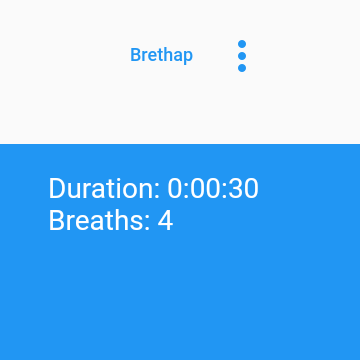
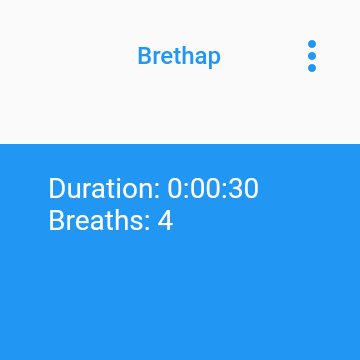
Update for release

Changed region(s): [[0.3667, 0.1222, 0.6111, 0.1833], [0.6417, 0.0917, 0.7028, 0.2139], [0.8556, 0.0917, 0.8861, 0.2139]]

diff --git a/lib/main.dart b/lib/main.dart
@@ -3,8 +3,18 @@ import 'dart:async';
 import 'package:flutter/material.dart';
 import 'package:vibration/vibration.dart';
 import 'package:brethap/constants.dart';
+import 'package:wear/wear.dart';
 
 void main() {
+  // Do not debugPrint in release
+  bool isInRelease = true;
+  assert(() {
+    isInRelease = false;
+    return true;
+  }());
+  if (isInRelease) {
+    debugPrint = (String? message, {int? wrapWidth}) {};
+  }
   runApp(const MainWidget());
 }
 
@@ -234,88 +244,97 @@ class _HomeWidgetState extends State<HomeWidget> {
 
   @override
   Widget build(BuildContext context) {
-    return Scaffold(
-      appBar: AppBar(
-        centerTitle: true,
-        title: Visibility(
-            visible: !_isRunning,
-            child: Text(_title,
-                style: const TextStyle(color: MainWidget.color, fontSize: 9))),
-        backgroundColor: Colors.transparent,
-        elevation: 0,
-        actions: <Widget>[
-          Visibility(
-            visible: !_isRunning,
-            child: PopupMenuButton<String>(
-              elevation: 0,
-              icon: const Icon(
-                Icons.more_vert,
-                color: MainWidget.color,
-              ),
-              onSelected: updatePreset,
-              itemBuilder: (BuildContext context) {
-                return presets.map((String choice) {
-                  return PopupMenuItem<String>(
-                    value: choice,
-                    child: Row(
-                      mainAxisAlignment: MainAxisAlignment.center,
-                      children: [
-                        Text(choice,
-                            style: const TextStyle(
-                              color: MainWidget.color,
-                            ))
-                      ],
-                    ),
-                  );
-                }).toList();
-              },
-            ),
-          ),
-          const SizedBox(width: 35.0),
-        ],
-      ),
-      extendBodyBehindAppBar: true,
-      body: Center(
-        child: Column(
-          mainAxisAlignment: MainAxisAlignment.center,
-          children: <Widget>[
-            Center(
-                child: Transform.scale(
-                    scale: _scale,
-                    child: Padding(
-                      padding: const EdgeInsets.all(8.0),
-                      child: Container(
-                        width: 90.0,
-                        height: 90.0,
-                        decoration: BoxDecoration(
-                          color: Theme.of(context).primaryColor,
-                          shape: BoxShape.circle,
-                        ),
-                      ),
-                    ))),
-            Text(
-              _status,
-            ),
-            ElevatedButton(
-                style: ButtonStyle(
-                    shape: MaterialStateProperty.all<RoundedRectangleBorder>(
-                  RoundedRectangleBorder(
-                    borderRadius: BorderRadius.circular(20.0),
+    return WatchShape(
+      builder: (BuildContext context, WearShape shape, Widget? child) {
+        debugPrint("Watch shape: $shape");
+        double padding = 0.0, fontSize = 12.0;
+        if (shape == WearShape.round) {
+          padding = 35.0;
+          fontSize = 9.0;
+        }
+        return Scaffold(
+          appBar: AppBar(
+            centerTitle: true,
+            title: Visibility(
+                visible: !_isRunning,
+                child: Text(_title,
+                    style: TextStyle(
+                        color: MainWidget.color, fontSize: fontSize))),
+            backgroundColor: Colors.transparent,
+            elevation: 0,
+            actions: <Widget>[
+              Visibility(
+                visible: !_isRunning,
+                child: PopupMenuButton<String>(
+                  elevation: 0,
+                  icon: const Icon(
+                    Icons.more_vert,
+                    color: MainWidget.color,
                   ),
-                )),
-                onPressed: () {
-                  setState(() {
-                    buttonPressed();
-                  });
-                },
-                child: _isRunning
-                    ? const Text(
-                        "Stop",
-                      )
-                    : const Text("Start"))
-          ],
-        ),
-      ),
+                  onSelected: updatePreset,
+                  itemBuilder: (BuildContext context) {
+                    return presets.map((String choice) {
+                      return PopupMenuItem<String>(
+                        value: choice,
+                        child: Row(
+                          mainAxisAlignment: MainAxisAlignment.center,
+                          children: [
+                            Text(choice,
+                                style: const TextStyle(
+                                  color: MainWidget.color,
+                                ))
+                          ],
+                        ),
+                      );
+                    }).toList();
+                  },
+                ),
+              ),
+              SizedBox(width: padding), // moves menu to left
+            ],
+          ),
+          extendBodyBehindAppBar: true,
+          body: Column(
+            mainAxisAlignment: MainAxisAlignment.center,
+            children: <Widget>[
+              Center(
+                  child: Transform.scale(
+                      scale: _scale,
+                      child: Padding(
+                        padding: const EdgeInsets.all(8.0),
+                        child: Container(
+                          width: 90.0,
+                          height: 90.0,
+                          decoration: BoxDecoration(
+                            color: Theme.of(context).primaryColor,
+                            shape: BoxShape.circle,
+                          ),
+                        ),
+                      ))),
+              Text(
+                _status,
+              ),
+              ElevatedButton(
+                  style: ButtonStyle(
+                      shape: MaterialStateProperty.all<RoundedRectangleBorder>(
+                    RoundedRectangleBorder(
+                      borderRadius: BorderRadius.circular(20.0),
+                    ),
+                  )),
+                  onPressed: () {
+                    setState(() {
+                      buttonPressed();
+                    });
+                  },
+                  child: _isRunning
+                      ? const Text(
+                          "Stop",
+                        )
+                      : const Text("Start"))
+            ],
+          ),
+        );
+      },
     );
   }
 }
